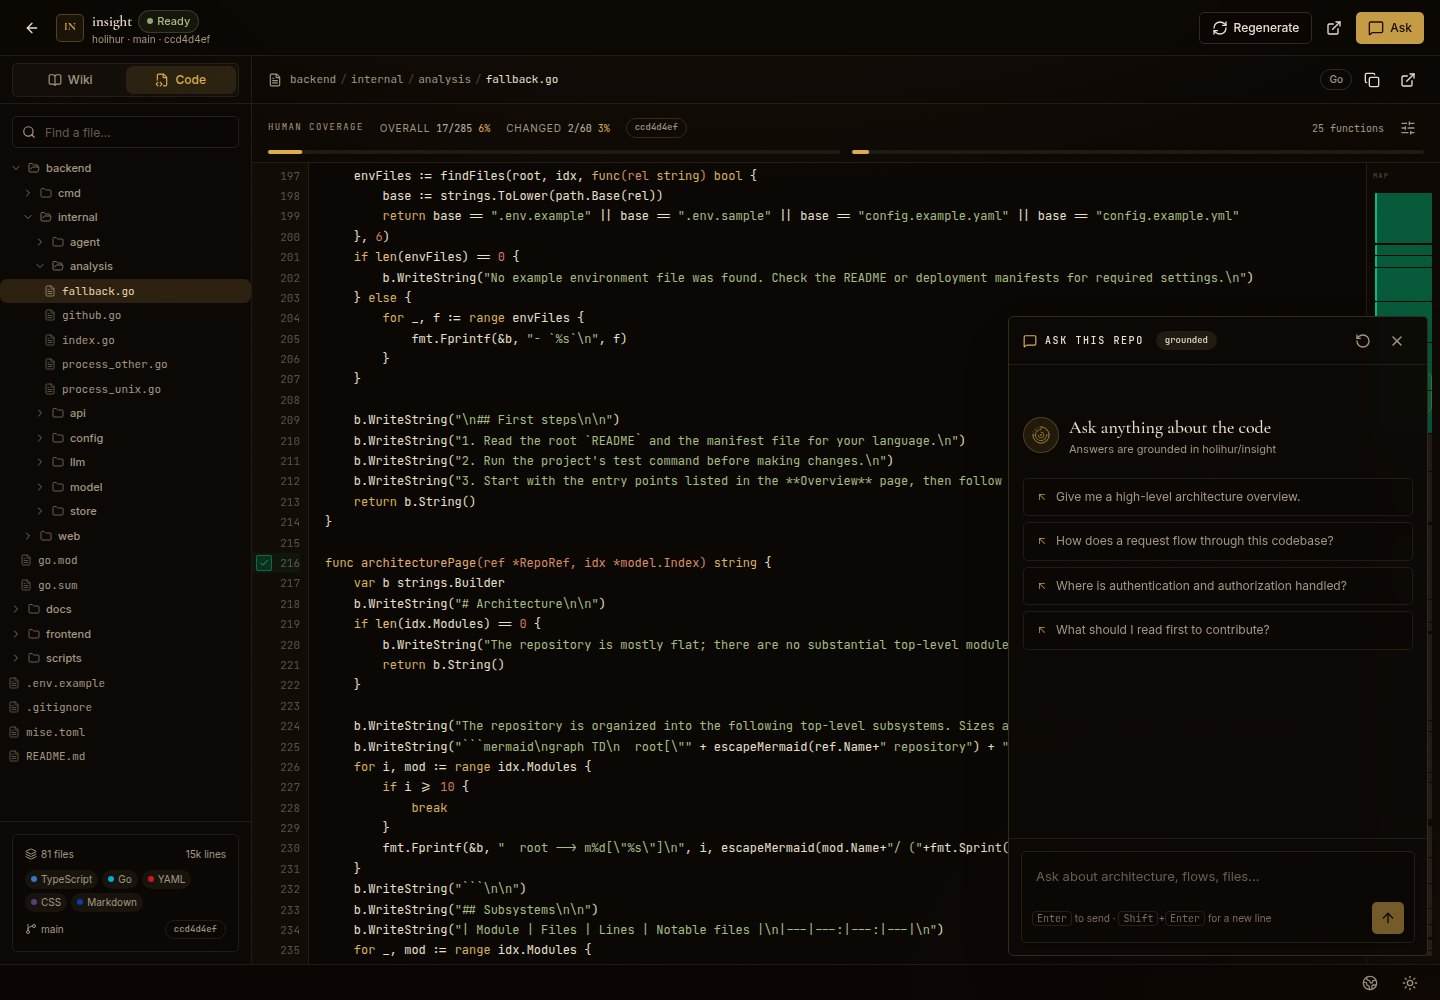
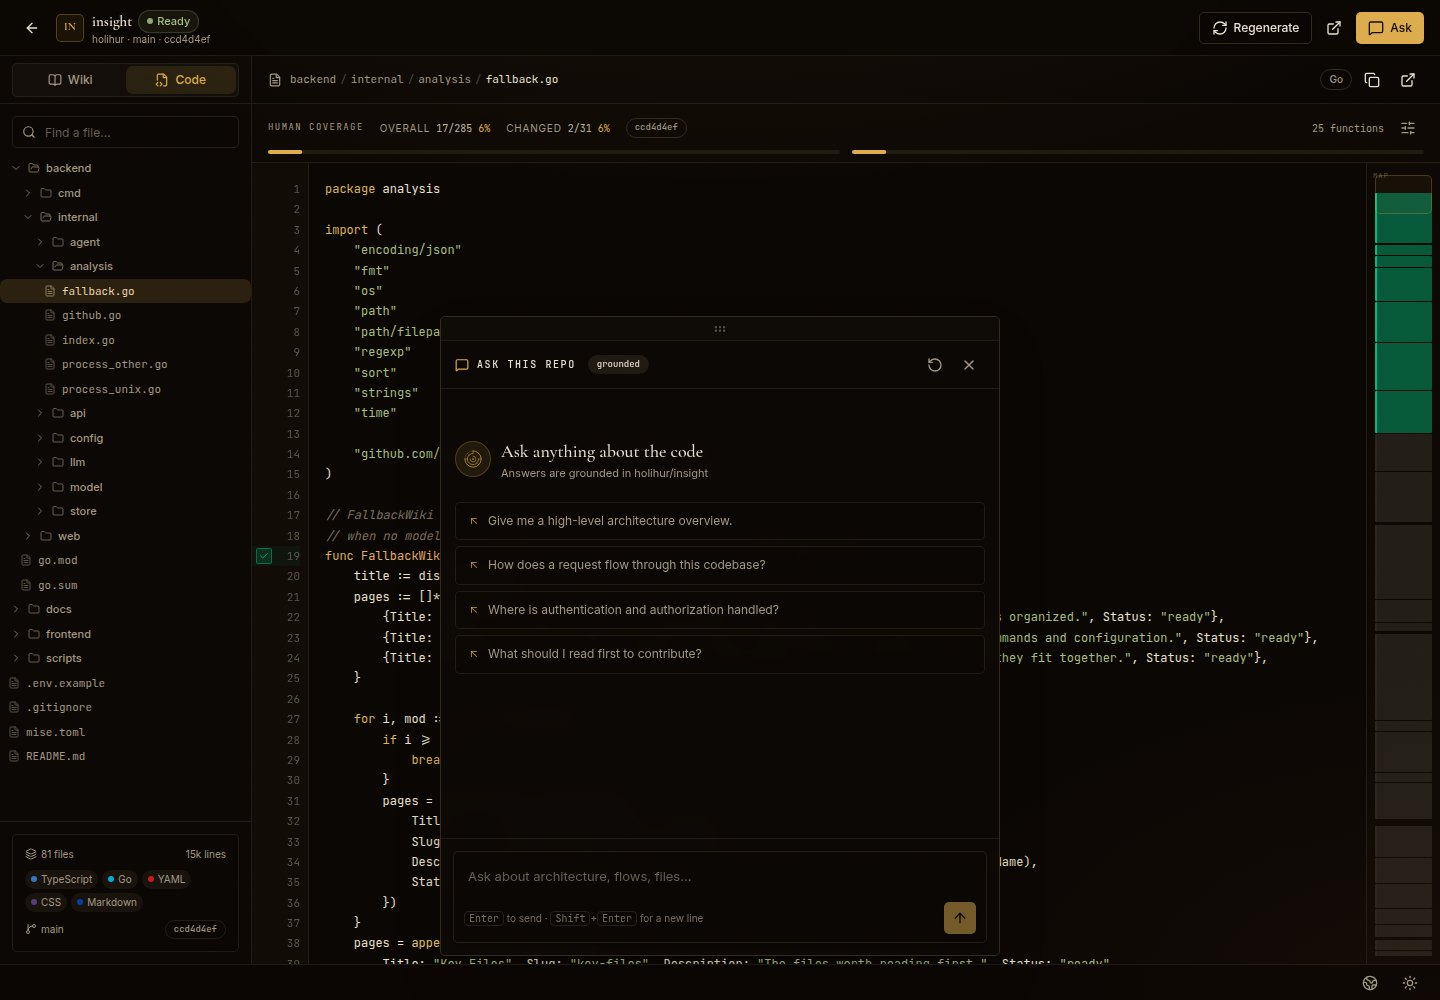
feat: draggable floating chat with persisted position

diff --git a/frontend/src/pages/RepoPage.tsx b/frontend/src/pages/RepoPage.tsx
@@ -1,6 +1,6 @@
-import { useCallback, useEffect, useMemo, useState } from "react"
+import { useCallback, useEffect, useMemo, useRef, useState } from "react"
 import { Link, useParams, useSearchParams } from "react-router-dom"
-import { ArrowLeft, Loader2, MessageSquare, RefreshCw } from "lucide-react"
+import { ArrowLeft, GripHorizontal, Loader2, MessageSquare, RefreshCw } from "lucide-react"
 import { toast } from "sonner"
 import { RepoHeader } from "@/components/repo/RepoHeader"
 import { LanguageSwitcher } from "@/components/layout/LanguageSwitcher"
@@ -27,6 +27,28 @@ import { cn, isActive } from "@/lib/utils"
 import type { IndexData, TreeNode } from "@/lib/types"
 import { useI18n } from "@/i18n"
 
+const CHAT_POSITION_KEY = "code-insight-chat-position"
+
+type ChatPosition = { x: number; y: number }
+
+function readChatPosition(): ChatPosition | null {
+  try {
+    const raw = window.localStorage.getItem(CHAT_POSITION_KEY)
+    if (!raw) return null
+    const parsed = JSON.parse(raw) as Partial<ChatPosition>
+    if (typeof parsed.x === "number" && typeof parsed.y === "number") {
+      return { x: parsed.x, y: parsed.y }
+    }
+  } catch {
+    // Ignore invalid persisted state.
+  }
+  return null
+}
+
+function clamp(value: number, min: number, max: number): number {
+  return Math.min(Math.max(value, min), Math.max(min, max))
+}
+
 export function RepoPage() {
   const { id } = useParams<{ id: string }>()
   const { theme, toggle } = useAppTheme()
@@ -39,6 +61,16 @@ export function RepoPage() {
   const [indexLoading, setIndexLoading] = useState(false)
   const [indexError, setIndexError] = useState<string | null>(null)
   const [navOpen, setNavOpen] = useState(false)
+  const [chatPos, setChatPos] = useState<ChatPosition | null>(readChatPosition)
+  const chatPanelRef = useRef<HTMLDivElement>(null)
+  const dragRef = useRef<{
+    startX: number
+    startY: number
+    originX: number
+    originY: number
+    width: number
+    height: number
+  } | null>(null)
 
   const pages = useMemo(() => repo?.wiki?.pages ?? [], [repo?.wiki])
   const requestedSlug = searchParams.get("page") ?? ""
@@ -152,6 +184,64 @@ export function RepoPage() {
   const openChat = useCallback(() => updateParams({ ask: "1" }), [updateParams])
   const closeChat = useCallback(() => updateParams({ ask: null }), [updateParams])
 
+  const startChatDrag = useCallback((event: React.PointerEvent<HTMLDivElement>) => {
+    if (event.button !== 0) return
+    const panel = chatPanelRef.current
+    if (!panel) return
+    const rect = panel.getBoundingClientRect()
+    dragRef.current = {
+      startX: event.clientX,
+      startY: event.clientY,
+      originX: rect.left,
+      originY: rect.top,
+      width: rect.width,
+      height: rect.height,
+    }
+    setChatPos({ x: rect.left, y: rect.top })
+    event.currentTarget.setPointerCapture(event.pointerId)
+    event.preventDefault()
+  }, [])
+
+  const moveChatDrag = useCallback((event: React.PointerEvent<HTMLDivElement>) => {
+    const drag = dragRef.current
+    if (!drag) return
+    setChatPos({
+      x: clamp(drag.originX + event.clientX - drag.startX, 8, window.innerWidth - drag.width - 8),
+      y: clamp(drag.originY + event.clientY - drag.startY, 8, window.innerHeight - drag.height - 8),
+    })
+  }, [])
+
+  const endChatDrag = useCallback((event: React.PointerEvent<HTMLDivElement>) => {
+    if (!dragRef.current) return
+    dragRef.current = null
+    if (event.currentTarget.hasPointerCapture(event.pointerId)) {
+      event.currentTarget.releasePointerCapture(event.pointerId)
+    }
+    const panel = chatPanelRef.current
+    if (!panel) return
+    const rect = panel.getBoundingClientRect()
+    const position = { x: rect.left, y: rect.top }
+    setChatPos(position)
+    window.localStorage.setItem(CHAT_POSITION_KEY, JSON.stringify(position))
+  }, [])
+
+  const resetChatPosition = useCallback(() => {
+    setChatPos(null)
+    window.localStorage.removeItem(CHAT_POSITION_KEY)
+  }, [])
+
+  useEffect(() => {
+    if (!chatOpen || !chatPos) return
+    const panel = chatPanelRef.current
+    if (!panel) return
+    const rect = panel.getBoundingClientRect()
+    const next = {
+      x: clamp(chatPos.x, 8, window.innerWidth - rect.width - 8),
+      y: clamp(chatPos.y, 8, window.innerHeight - rect.height - 8),
+    }
+    if (next.x !== chatPos.x || next.y !== chatPos.y) setChatPos(next)
+  }, [chatOpen, chatPos])
+
   if (loading && !repo) {
     return <RepoLoading />
   }
@@ -263,7 +353,29 @@ export function RepoPage() {
       </Dialog>
 
       {chatOpen && (
-        <div className="fixed bottom-11 right-3 z-50 flex h-[min(640px,calc(100dvh-6rem))] w-[420px] max-w-[calc(100vw-1.5rem)] flex-col overflow-hidden rounded-sm border border-border bg-background/95 shadow-2xl backdrop-blur-md">
+        <div
+          ref={chatPanelRef}
+          style={
+            chatPos
+              ? { left: chatPos.x, top: chatPos.y, bottom: "auto", transform: "none" }
+              : undefined
+          }
+          className={cn(
+            "fixed z-50 flex h-[min(640px,calc(100dvh-6rem))] w-[min(560px,calc(100vw-1.5rem))] flex-col overflow-hidden rounded-sm border border-border bg-background/95 shadow-2xl backdrop-blur-md",
+            !chatPos && "bottom-11 left-1/2 -translate-x-1/2",
+          )}
+        >
+          <div
+            onPointerDown={startChatDrag}
+            onPointerMove={moveChatDrag}
+            onPointerUp={endChatDrag}
+            onPointerCancel={endChatDrag}
+            onDoubleClick={resetChatPosition}
+            title={t("chat.dragHint")}
+            className="flex h-6 shrink-0 cursor-grab touch-none items-center justify-center border-b border-border/50 bg-muted/25 active:cursor-grabbing"
+          >
+            <GripHorizontal className="size-3.5 text-muted-foreground/50" />
+          </div>
           <ChatPanel
             repo={repo}
             messages={chat.messages}
@@ -281,7 +393,7 @@ export function RepoPage() {
         <button
           type="button"
           onClick={openChat}
-          className="fixed bottom-12 right-4 z-40 inline-flex items-center gap-1.5 rounded-full border border-primary/30 bg-primary px-4 py-2 text-xs font-medium text-primary-foreground shadow-lg transition-transform hover:-translate-y-0.5"
+          className="fixed bottom-12 left-1/2 z-40 inline-flex -translate-x-1/2 items-center gap-1.5 rounded-full border border-primary/30 bg-primary px-4 py-2 text-xs font-medium text-primary-foreground shadow-lg transition-transform hover:-translate-y-0.5"
         >
           <MessageSquare className="size-3.5" />
           {t("repo.ask")}

diff --git a/frontend/src/i18n/messages.ts b/frontend/src/i18n/messages.ts
@@ -120,6 +120,7 @@ const rows: Row[] = [
   ["chat.s3", "Where is authentication and authorization handled?", "认证和授权在哪里处理？", "¿Dónde se gestionan la autenticación y la autorización?", "प्रमाणीकरण और प्राधिकरण कहाँ संभाला जाता है?", "أين تتم معالجة المصادقة والتفويض؟", "Onde ficam autenticação e autorização?", "Где обрабатываются аутентификация и авторизация?", "認証と認可はどこで処理されますか？", "Où sont gérés l'authentification et l'autorisation ?", "Wo werden Authentifizierung und Autorisierung behandelt?"],
   ["chat.s4", "What should I read first to contribute?", "想贡献代码，应该先读什么？", "¿Qué debo leer primero para contribuir?", "योगदान देने के लिए पहले क्या पढ़ूं?", "ماذا أقرأ أولاً للمساهمة؟", "O que devo ler primeiro para contribuir?", "С чего начать, чтобы внести вклад?", "貢献するには何から読むべき？", "Que lire en premier pour contribuer ?", "Was sollte ich zuerst lesen, um beizutragen?"],
   ["chat.localNote", "Lightweight mode: answers are based on code search. Regenerate the wiki for deeper, source-read answers.", "轻量模式：答案基于代码搜索。重新生成 Wiki 可获得更深入的源码解读。", "Modo ligero: las respuestas se basan en la búsqueda de código. Regenera el wiki para respuestas más profundas.", "हल्का मोड: उत्तर कोड खोज पर आधारित हैं। गहरे उत्तरों के लिए विकी फिर से बनाएं।", "الوضع الخفيف: الإجابات مبنية على البحث في الكود. أعد توليد الويكي للحصول على إجابات أعمق.", "Modo leve: as respostas são baseadas na busca de código. Regenere o wiki para respostas mais profundas.", "Лёгкий режим: ответы основаны на поиске по коду. Пересоздайте вики для более глубоких ответов.", "軽量モード：回答はコード検索に基づきます。より深い回答には Wiki を再生成してください。", "Mode léger : les réponses reposent sur la recherche de code. Régénérez le wiki pour des réponses plus approfondies.", "Leichtmodus: Antworten basieren auf Codesuche. Erstellen Sie das Wiki neu für tiefere Antworten."],
+  ["chat.dragHint", "Drag to move · double-click to reset", "拖动移动 · 双击复位", "Arrastra para mover · doble clic para restablecer", "स्थानांतरित करने के लिए खींचें · रीसेट के लिए डबल-क्लिक करें", "اسحب للتحريك · انقر نقرًا مزدوجًا لإعادة الضبط", "Arraste para mover · clique duas vezes para redefinir", "Перетащите, чтобы переместить · двойной щелчок сбрасывает", "ドラッグで移動 · ダブルクリックでリセット", "Faites glisser pour déplacer · double-cliquez pour réinitialiser", "Ziehen zum Verschieben · Doppelklick zum Zurücksetzen"],
   ["chat.placeholder", "Ask about architecture, flows, files…", "问架构、流程、文件…", "Pregunta sobre arquitectura, flujos, archivos…", "आर्किटेक्चर, प्रवाह, फ़ाइलों के बारे में पूछें…", "اسأل عن الهندسة والتدفقات والملفات…", "Pergunte sobre arquitetura, fluxos, arquivos…", "Спросите об архитектуре, потоках, файлах…", "アーキテクチャ、流れ、ファイルについて質問…", "Posez une question sur l'architecture, les flux, les fichiers…", "Fragen Sie nach Architektur, Abläufen, Dateien…"],
   ["chat.enter", "to send", "发送", "para enviar", "भेजने के लिए", "للإرسال", "para enviar", "отправить", "で送信", "pour envoyer", "zum Senden"],
   ["chat.shift", "for a new line", "换行", "para nueva línea", "नई पंक्ति के लिए", "لسطر جديد", "para nova linha", "новая строка", "で改行", "pour un saut de ligne", "für neue Zeile"],

diff --git a/README.md b/README.md
@@ -16,7 +16,7 @@
 - **支持 Mermaid 图**：架构和调用关系可以直接渲染成图。
 - **人工覆盖率**：每个方法左侧有勾选标记，确认看过即可打勾，并实时汇总当前 commit 的**总体覆盖率**和**变更覆盖率**。
 - **代码 minimap**：代码右侧显示文件缩略图；已人工确认的方法区块变绿，变更为金；点击即可跳转。
-- **浮动对话**：Ask 面板浮在页面底部，不占用代码宽度，随时展开追问。
+- **浮动对话**：Ask 面板默认浮在底部居中，可拖动到任意位置，位置会记住，不占用代码宽度。
 - **URL 深链接**：视图、Wiki 页面、文件/目录和对话状态都写入 URL，刷新或分享链接不会丢失。
 - **忽略规则**：支持按目录、package、通配符排除，界面里的 Filters 或仓库根目录的 `.insightignore` 都可以配置。
 - **10 种界面语言**：English、简体中文、Español、हिन्दी、العربية、Português、Русский、日本語、Français、Deutsch。语言与主题切换放在页面底部。
@@ -35,7 +35,7 @@
 
 ![浮动对话](docs/screenshot-chat.jpg)
 
-对话面板固定在底部，展开时不会挤占代码和 minimap 的宽度。
+对话面板默认在底部居中，拖动顶部的拖拽条即可移动到任意位置；位置会保存在本地，双击拖拽条复位。
 
 ## 快速开始
 
@@ -105,6 +105,7 @@ OPENAI_MODEL=gpt-4o-mini
 5. 需要重新生成时点击 **Regenerate**；删除分析会同时删除本地克隆。
 6. 语言和主题切换在页面底部。
 7. 当前视图、Wiki 页面、文件/目录和对话状态都会写入 URL，刷新或把链接发给同事都能直接回到同一位置。
+8. 对话面板可以拖动改变位置，位置会记住；双击拖拽条回到默认的底部居中。
 
 例如：
 
